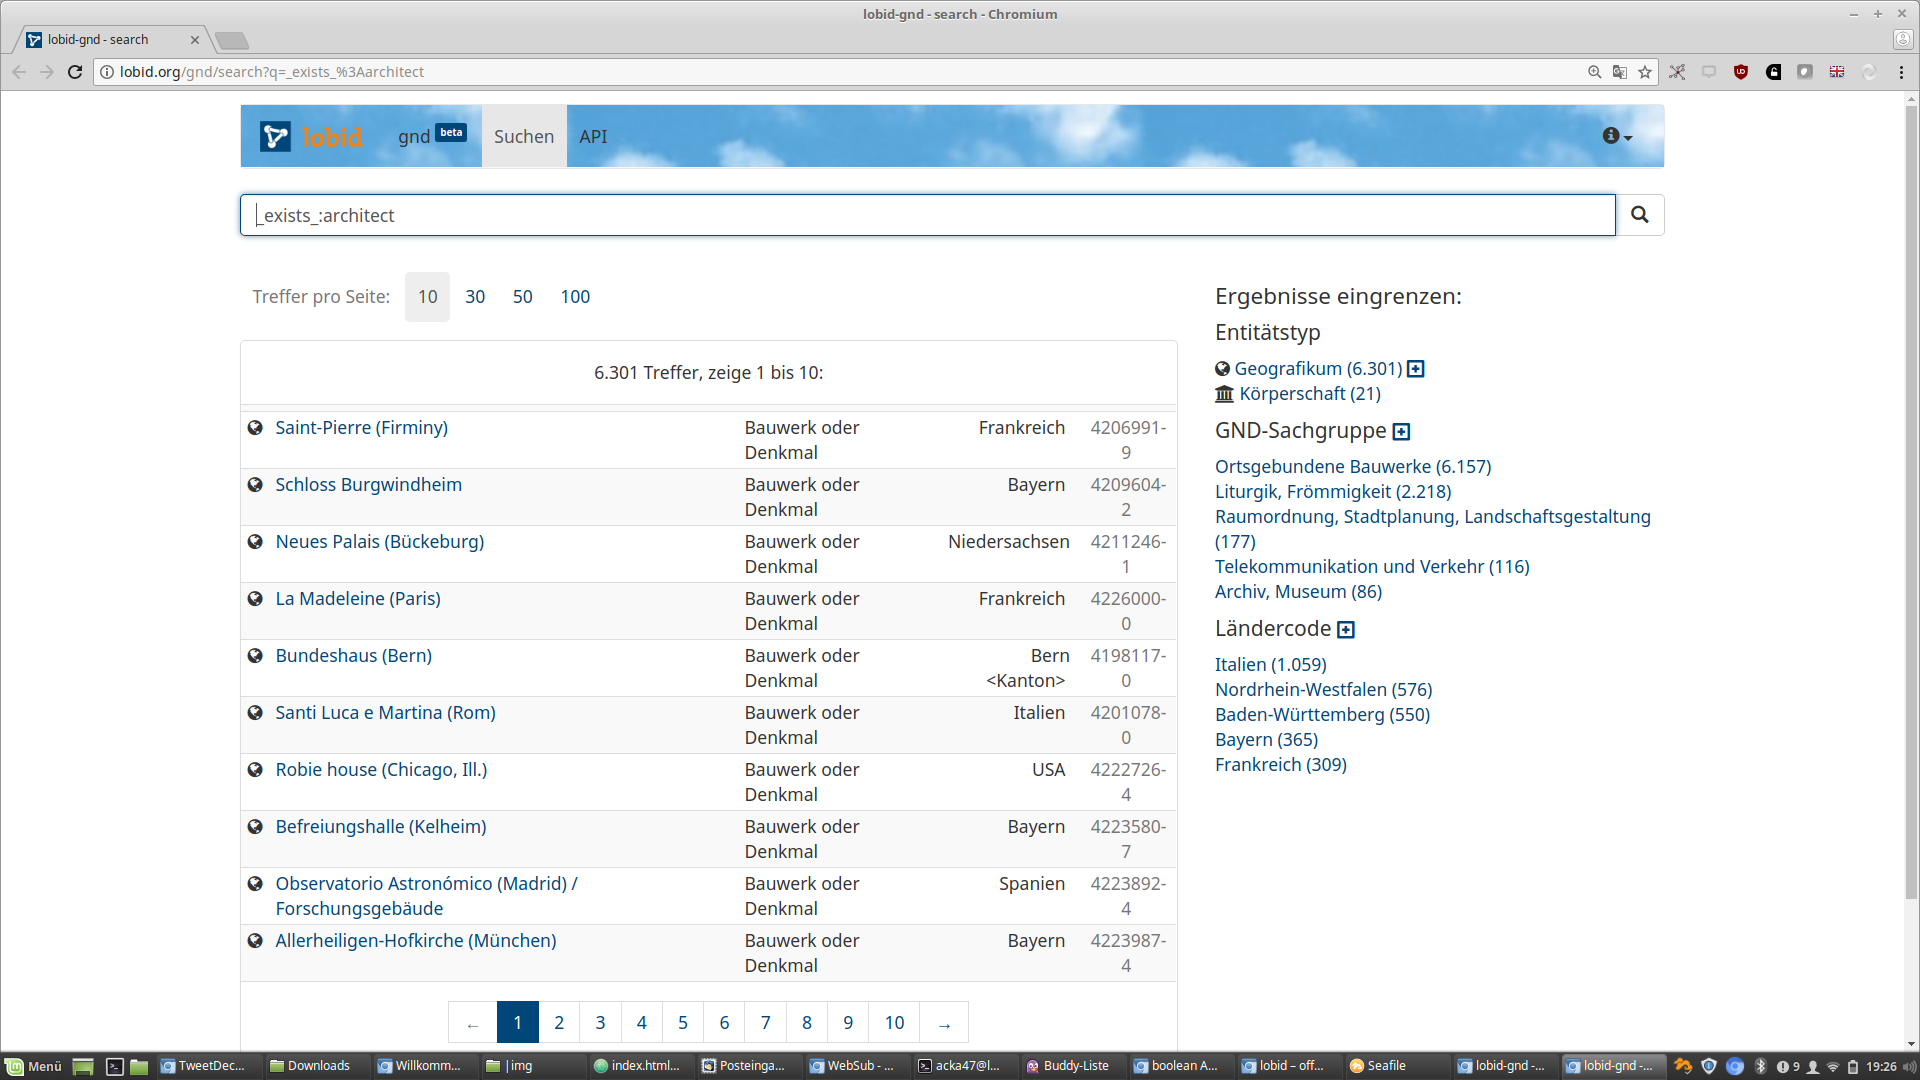
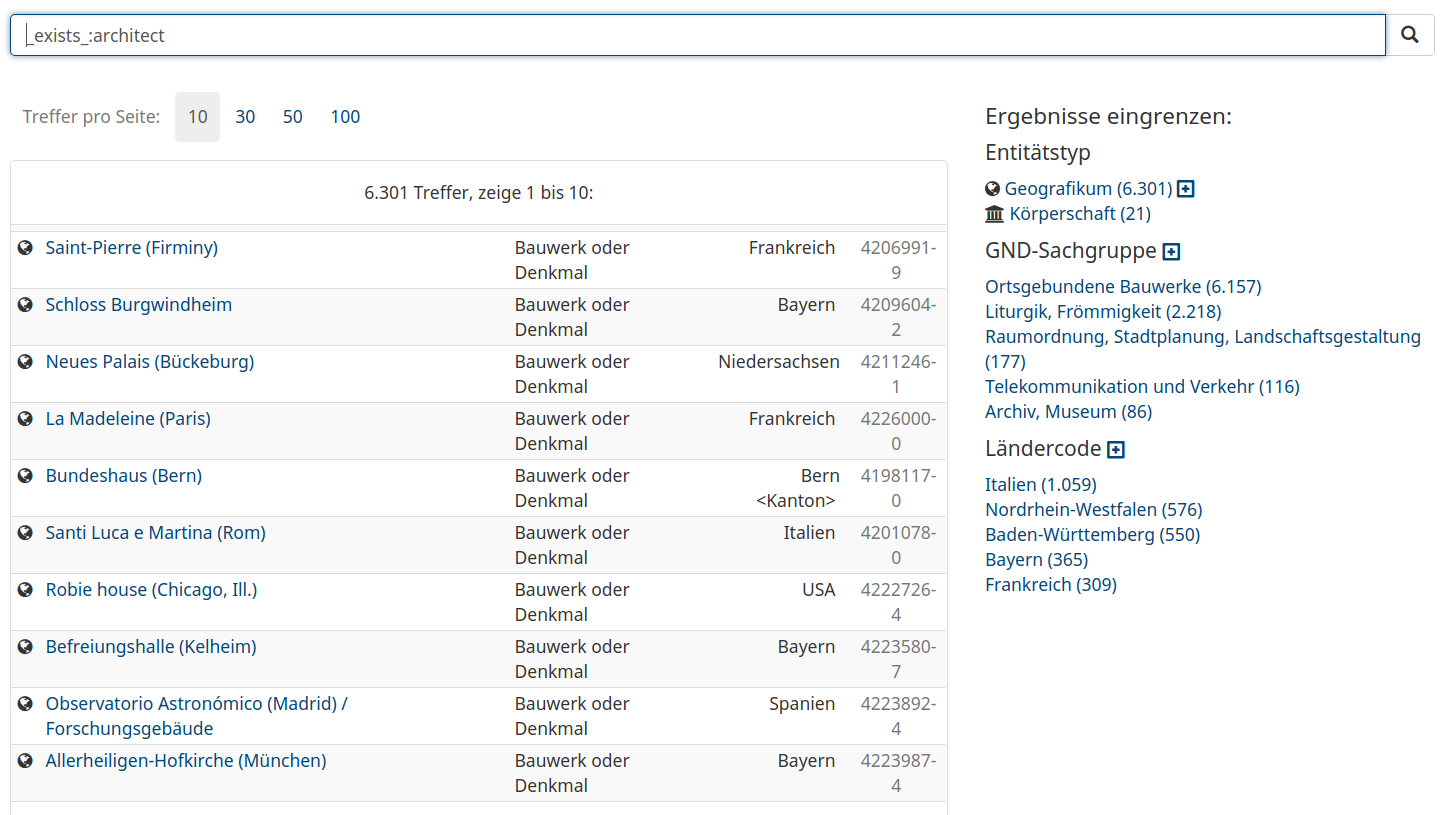
Update lobid-gnd screenshots
Images still had the beta tag for gnd in the nav bar, now using
images from http://blog.lobid.org/2018/07/04/lobid-gnd-suche.html

diff --git a/dhc-2020/index.html b/dhc-2020/index.html
@@ -507,7 +507,7 @@ $ curl -H "Accept: application/json" https://api.github.com/users/acka47
 				<h2>2013-2017: lobid v1.x</h2>
 				<p><span class="fragment">Richtung LOUD: Von RDF-Dateien und SPARQL zu LOD-API mit generiertem
 						JSON-LD</span></p>
-				<p><span class="fragment">Datentransformation mit <a href="https://github.com/metafacture/">Metafacture</span></p>
+				<p><span class="fragment">Datentransformation mit <a href="https://github.com/metafacture/">Metafacture</a></span></p>
 				<p><span class="fragment">Fokus auf Schnittstelle, keine Oberflächen</span></p>
 			</section>
 
@@ -531,24 +531,24 @@ $ curl -H "Accept: application/json" https://api.github.com/users/acka47
 
 			<section>
 				<h3>Auto Suggest</h3>
-				<img src="img/20180601_lobid-gnd-autosuggest.png" style="border: none; box-shadow: none;" />
+				<img src="img/lobid-gnd-autosuggest.png" style="border: none; box-shadow: none;" />
 			</section>
 
 			<section>
 				<h3>Ergebnisliste</h3>
-				<a href="http://lobid.org/gnd/search?q=hannah+arendt"><img src="img/20180605_lobid-gnd-result-list.png"
+				<a href="http://lobid.org/gnd/search?q=hannah+arendt"><img src="img/lobid-gnd-result-list.png"
 						width=800 style="border: none; box-shadow: none;" /></a>
 			</section>
 
 			<section>
 				<h3>Einzeltreffer</h3>
-				<a href="http://lobid.org/gnd/11850391X"><img src="img/20180605_lobid-gnd-einzeltreffer.png" width=800
+				<a href="http://lobid.org/gnd/11850391X"><img src="img/lobid-gnd-einzeltreffer.png" width=800
 						style="border: none; box-shadow: none;" /></a>
 			</section>
 
 			<section>
 				<h3>Beziehungsgraph</h3>
-				<a href="http://lobid.org/gnd/11850391X#rels"><img src="img/20180606_lobid-gnd-graph.png"
+				<a href="http://lobid.org/gnd/11850391X#rels"><img src="img/lobid-gnd-graph.png"
 						style="border: none; box-shadow: none;" /></a>
 			</section>
 			</section>
@@ -558,13 +558,10 @@ $ curl -H "Accept: application/json" https://api.github.com/users/acka47
 				<a href="https://www.w3.org/TR/json-ld/"><img src="img/json-ld.png" width="350px" /></a>
 			</section>
 
-			<section data-background="img/20180605_lobid-gnd-einzeltreffer.png" data-background-size="contain">
-				<a href="http://lobid.org/gnd/11850391X">
-					<h1>&nbsp;<br />&nbsp;<br />&nbsp;</h1>
-				</a>
-			</section>
-
-			<section data-background="img/focus-json-ld.png" data-background-size="contain">
+			<section>
+				<h3>JSON-LD-Link</h3>
+				<a href="http://lobid.org/gnd/11850391X"><img src="img/focus-json-ld.png"
+						style="border: none; box-shadow: none;" /></a>
 				<a href="http://lobid.org/gnd/11850391X">
 					<h1>&nbsp;<br />&nbsp;<br />&nbsp;</h1>
 				</a>
@@ -581,7 +578,7 @@ $ curl -H "Accept: application/json" https://api.github.com/users/acka47
 			</section>
 
 			<section>
-				<h2>Datenherkunft & -generierung</h2>
+				<h2>Datenherkunft &amp; -generierung</h2>
 				<p><span class="fragment">Tägl. Bezug der <a
 							href="http://www.dnb.de/DE/Service/DigitaleDienste/LinkedData/linkeddata_node.html">GND-RDF-Daten
 							von der DNB</a> via OAI-PMH</span></p>
@@ -598,7 +595,7 @@ $ curl -H "Accept: application/json" https://api.github.com/users/acka47
 
 			<section>
 				<h3>c. Web-API</h3>
-				<a href="http://lobid.org/gnd/api"><img src="img/lobid-gnd-api.png" width="800" /></a>
+				<a href="http://lobid.org/gnd/api"><img src="img/lobid-gnd-api.png" width="500" /></a>
 			</section>
 
 			<section>
@@ -675,7 +672,6 @@ $ curl -H "Accept: application/json" https://api.github.com/users/acka47
 
 			<section data-state="alle">
 				<h1>SkoHub</h1>
-				<p>...</p>
 			</section>
 
 			<section>
